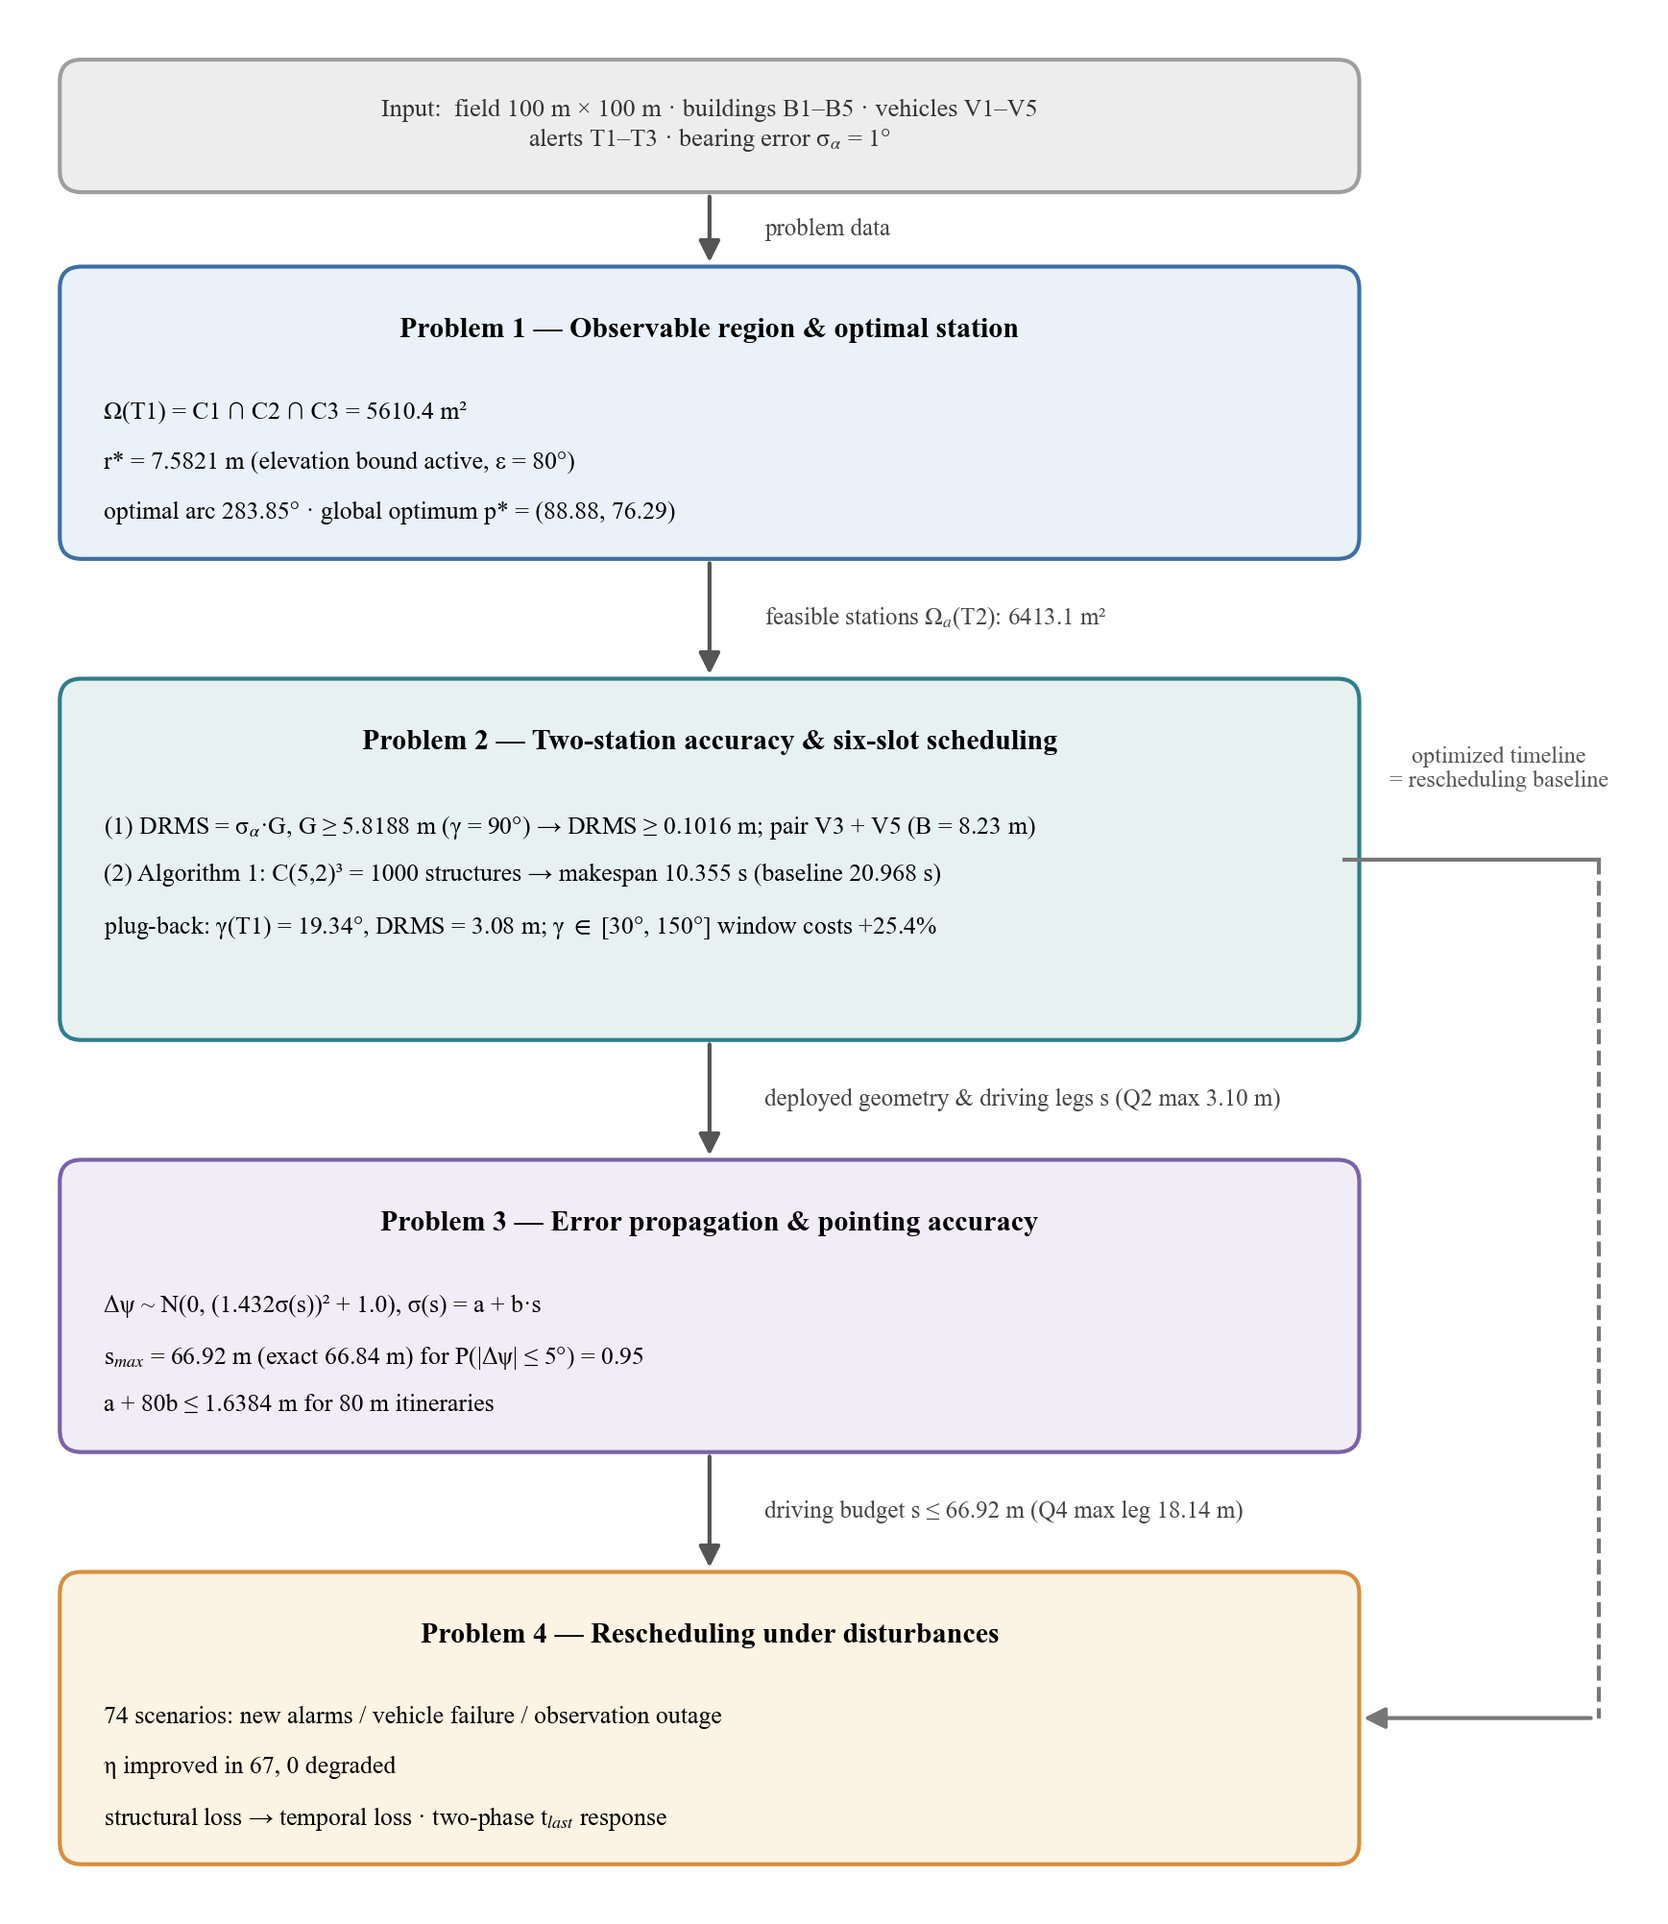
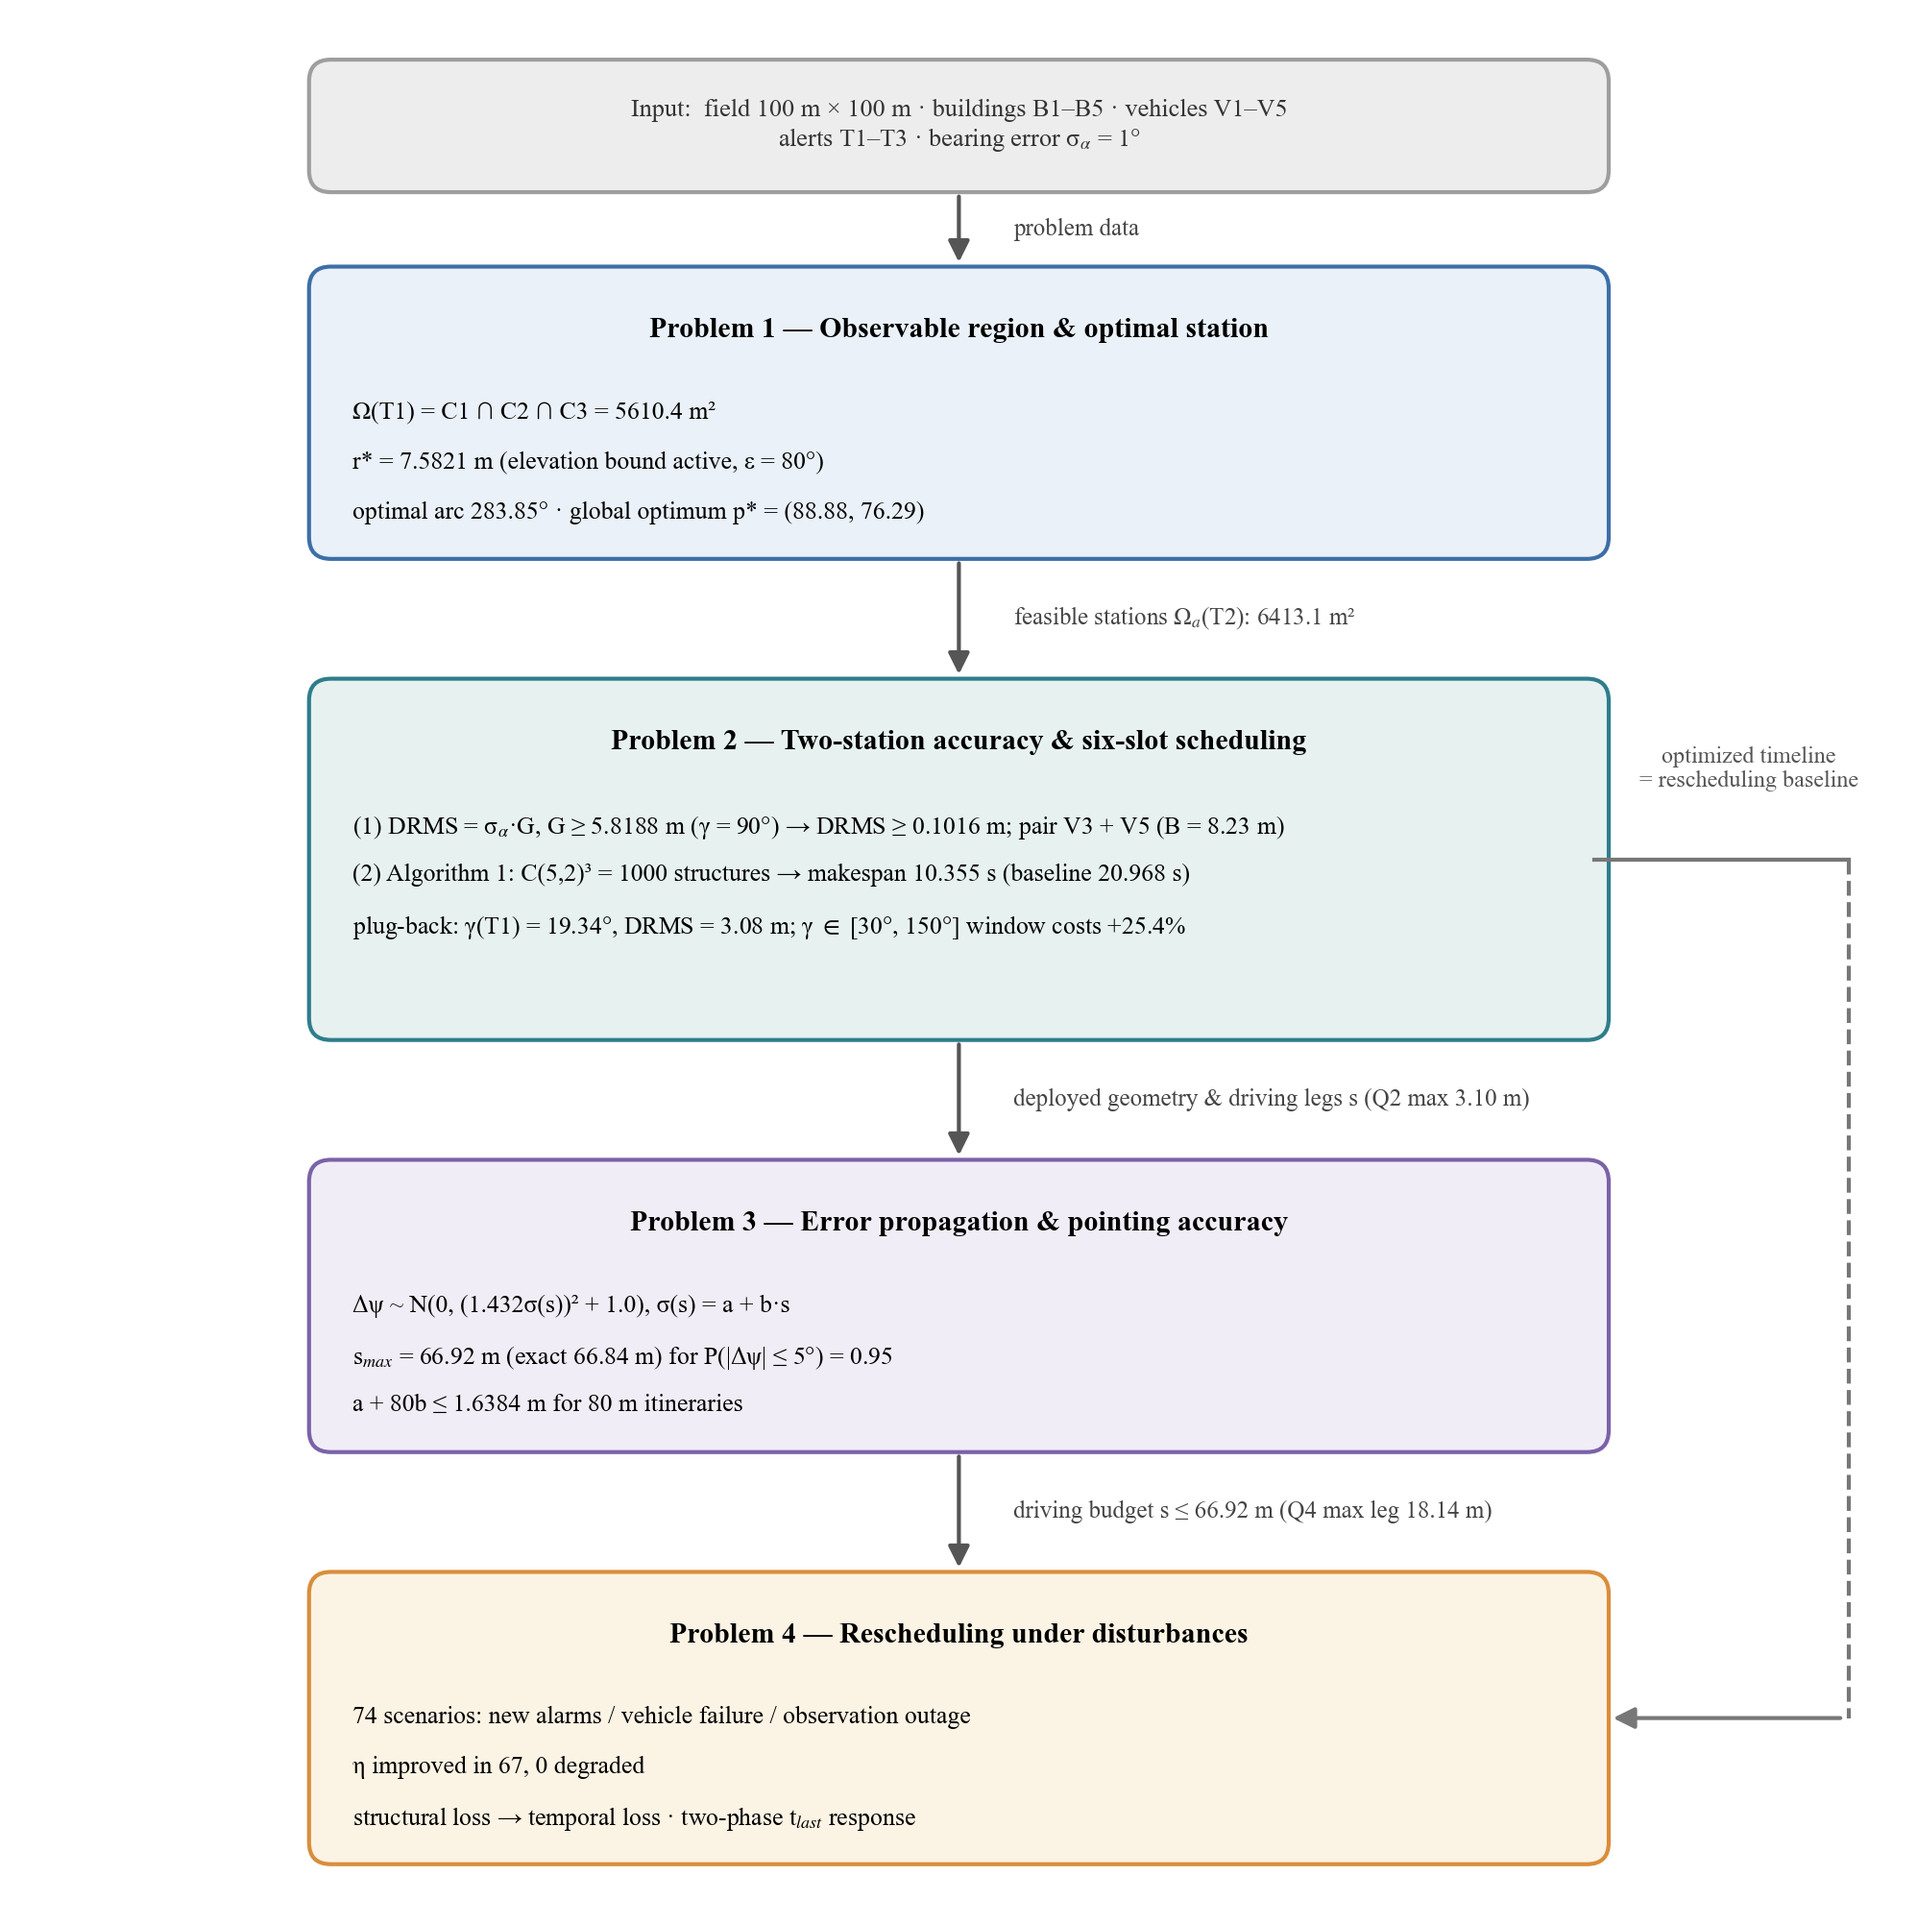
架构图居中

diff --git a/B题/论文图表/_find_doc.py b/B题/论文图表/_find_doc.py
@@ -1,0 +1,57 @@
+# -*- coding: utf-8 -*-
+"""Locate the handover doc (AI交接文档_当前进度.md) and dump dir listings."""
+import io
+import os
+import subprocess
+
+ROOT = os.path.dirname(os.path.dirname(os.path.dirname(
+    os.path.abspath(__file__))))          # repo root: 2026-shuweibei
+B = os.path.join(ROOT, "B题")
+OUT = os.path.join(os.path.dirname(os.path.abspath(__file__)),
+                   "_find_doc_result.txt")
+
+lines = []
+
+
+def walk_find(base, needle):
+    for dirpath, dirnames, filenames in os.walk(base):
+        dirnames[:] = [d for d in dirnames
+                       if d not in (".git", "__pycache__")]
+        for fn in filenames:
+            if needle in fn:
+                lines.append("FOUND: " + os.path.join(dirpath, fn))
+
+
+lines.append("== repo root: " + ROOT)
+lines.append("== B题 root listing ==")
+try:
+    for name in sorted(os.listdir(B)):
+        full = os.path.join(B, name)
+        lines.append(("[D] " if os.path.isdir(full) else "[F] ") + name)
+except Exception as e:
+    lines.append("LIST-ERR: " + repr(e))
+
+lines.append("== search 'AI交接' under repo ==")
+try:
+    walk_find(ROOT, "AI交接")
+except Exception as e:
+    lines.append("WALK-ERR: " + repr(e))
+
+lines.append("== search '交接' under desktop package ==")
+try:
+    walk_find(r"C:\Users\ASUS\Desktop\shuwei材料包", "交接")
+except Exception as e:
+    lines.append("WALK-ERR: " + repr(e))
+
+lines.append("== git status (porcelain) ==")
+try:
+    p = subprocess.run(["git", "-C", ROOT, "status", "--porcelain"],
+                       capture_output=True)
+    lines.append(p.stdout.decode("utf-8", "replace"))
+    lines.append("git stderr: " + p.stderr.decode("utf-8", "replace")[:300])
+except Exception as e:
+    lines.append("GIT-ERR: " + repr(e))
+
+with io.open(OUT, "w", encoding="utf-8") as f:
+    f.write("\n".join(lines))
+print("written:", os.path.basename(OUT), len(lines), "lines")

diff --git a/B题/论文图表/make_fig_framework.py b/B题/论文图表/make_fig_framework.py
@@ -158,8 +158,13 @@ for coll in (ax.patches, ax.texts, ax.lines):
         ys0.append(dy0)
         ys1.append(dy1)
 PAD = 2.5
-x_lo, x_hi = min(xs0) - PAD, max(xs1) + PAD
 y_lo, y_hi = min(ys0) - PAD, max(ys1) + PAD
+# horizontal balance: centre the MAIN BLOCK COLUMN in the canvas; the
+# right-side bypass protrusion is mirrored by equal empty space on the left,
+# so the figure reads symmetric when centred in the document
+bc = (BX + BX + BW) / 2
+x_hi = max(max(xs1), BX + BW) + PAD
+x_lo = min(min(xs0), 2 * bc - x_hi)
 ax.set_xlim(x_lo, x_hi)
 ax.set_ylim(y_lo, y_hi)
 UNIT_IN = 0.063                      # inches per data unit, same for x and y

diff --git a/B题/论文图表/图号对照与说明.md b/B题/论文图表/图号对照与说明.md
@@ -21,7 +21,7 @@
 | 图 4-9 | fig4-9_probability_ab | P(s) 曲线与 (a,b) 可行域 | 4-18、4-19 | (a) P(|Δψ|≤5°)–s（解析曲线 + MC 点 + 0.95 线 + s_max）；(b) (a,b) 可行域（0.90/0.95/0.98/0.99 等置信线 + 名义点标注） |
 | 图 4-10 | fig4-10_tlast_response | t_last 两段式响应 | 4-24、4-26 | (a) t_last–θ（R=30/40/50 三线 + keep 60 s 线 + 基线 10.36 s 线）；(b) t_last–t_rec（V1–V5 五线：实线=resched、点线=keep） |
 | 图 4-11 | fig4-11_resched_compare | 重调度甘特与 74 场景对比 | 4-27、4-28 | (a) V4 故障重调度甘特（V4 行标注 failed）；(b) 74 场景 (t_last, η) 散点（keep × vs resched ○） |
-| 图 0（框架图） | fig0_framework | 四问关系框架图（论文 §2 问题分析 / 建模总览），纵向链式布局 | — | 输入条 + Q1→Q2（含 (1)(2) 两行）→Q3→Q4 纵向四块；主链箭头标具体量：feasible stations Ω_a(T2): 6413.1 m² / deployed geometry & legs s (Q2 max 3.10 m) / driving budget s ≤ 66.92 m (Q4 max leg 18.14 m)；右侧旁路箭头 optimized timeline = rescheduling baseline（Q2→Q4）；脚本内置文字溢出断言（防穿框）+ 内容包围盒对称裁边（左右留白等宽）；全英文 Times New Roman；全部数字经 `_verify_fig0.py` 34 项逐一对源核对通过 |
+| 图 0（框架图） | fig0_framework | 四问关系框架图（论文 §2 问题分析 / 建模总览），纵向链式布局 | — | 输入条 + Q1→Q2（含 (1)(2) 两行）→Q3→Q4 纵向四块；主链箭头标具体量：feasible stations Ω_a(T2): 6413.1 m² / deployed geometry & legs s (Q2 max 3.10 m) / driving budget s ≤ 66.92 m (Q4 max leg 18.14 m)；右侧旁路箭头 optimized timeline = rescheduling baseline（Q2→Q4）；脚本内置文字溢出断言（防穿框）+ 块列居中裁边（右侧旁路凸出量镜像为左侧等量留白，插入文档居中时构图对称）；全英文 Times New Roman；全部数字经 `_verify_fig0.py` 34 项逐一对源核对通过 |
 
 ## 被删老图的内容落地（正文补句，复核已给出）
 

diff --git a/B题/01_论文/过程文档/AI交接文档_当前进度.md b/B题/01_论文/过程文档/AI交接文档_当前进度.md
@@ -533,7 +533,7 @@ B题\
 - 已同步桌面材料包；复现命令 `python -I make_fig_framework.py`。
 
 ### XIV.12 框架图终版打磨与 34 项全量数据核对（2026-11-22）
-- **对称留白**：改用 `fig.add_axes([0,0,1,1])` + 实测内容包围盒四边等宽 PAD=2.5 u 裁边出图（不再 bbox_inches="tight"），插入文档居中不偏左。
+- **对称留白**：改用 `fig.add_axes([0,0,1,1])` + 裁边出图（不再 bbox_inches="tight"）；按用户反馈最终采用**块列居中**裁边：以主块列（x 2–72）为中心，右侧旁路凸出量（≈17 u）镜像为左侧等量空白，主块列在画布正中（构图对称，插入文档居中好看）。
 - **核对抓出 1 处图面错误并修复**：箭头标签原写 "feasible stations Ω_a (5610.4 m²)"——5610.4 是 **T1** 的区域面积，Q2 选站针对 T2（可行域 6413.09 m²，q2a_results.region.area_m2 / q2b_results.region_areas）。已改为 "Ω_a(T2): 6413.1 m²"，Q1 块同步标注 Ω(T1)。三个告警区域面积：T1 5610.40 / T2 6413.09 / T3 5459.84。
 - **γ 窗口写全**：plug-back 行改 "γ ∈ [30°, 150°] window costs +25.4%"（原写单侧 γ≥30°）。
 - **34 项逐一对源核对全过**（新脚本 `论文图表/_verify_fig0.py`，可复跑）：覆盖输入条 5 项、Q1 6 项、Q2(1) 5 项、Q2(2) 6 项、Q3 6 项、Q4 及箭头 6 项，全部对 results/*.json 原始字段取值并按图中舍入位数比对；η 统计从 74 场景 keep/resched eta 现场重算（67 提升/7 持平/0 劣化）✓；Q2 最大腿长 3.10 m、Q4 最大腿长 18.14 m 现场重算 ✓；Q4 基线指派与 q2b 优化解逐告警一致 ✓。
